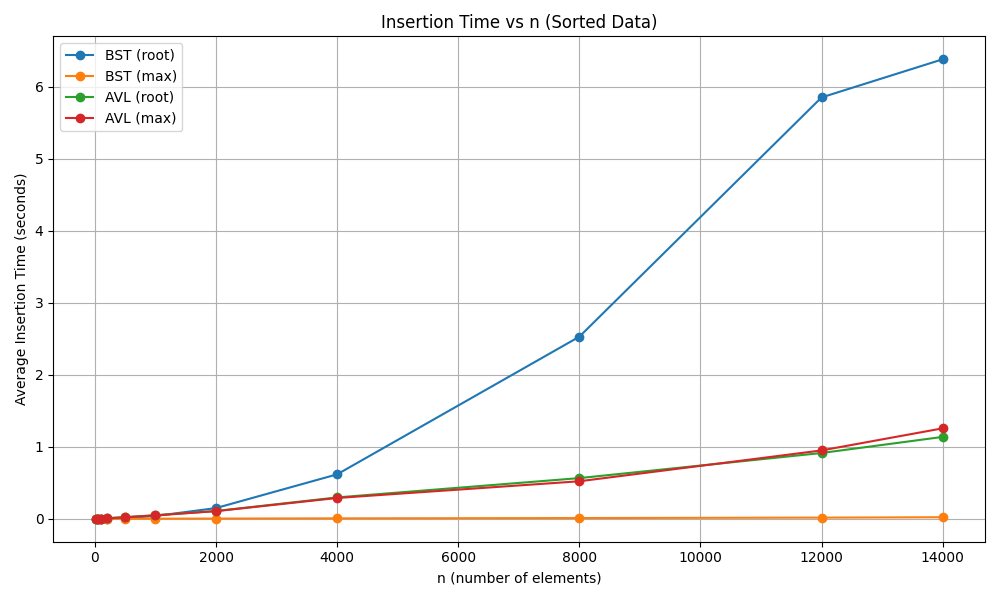
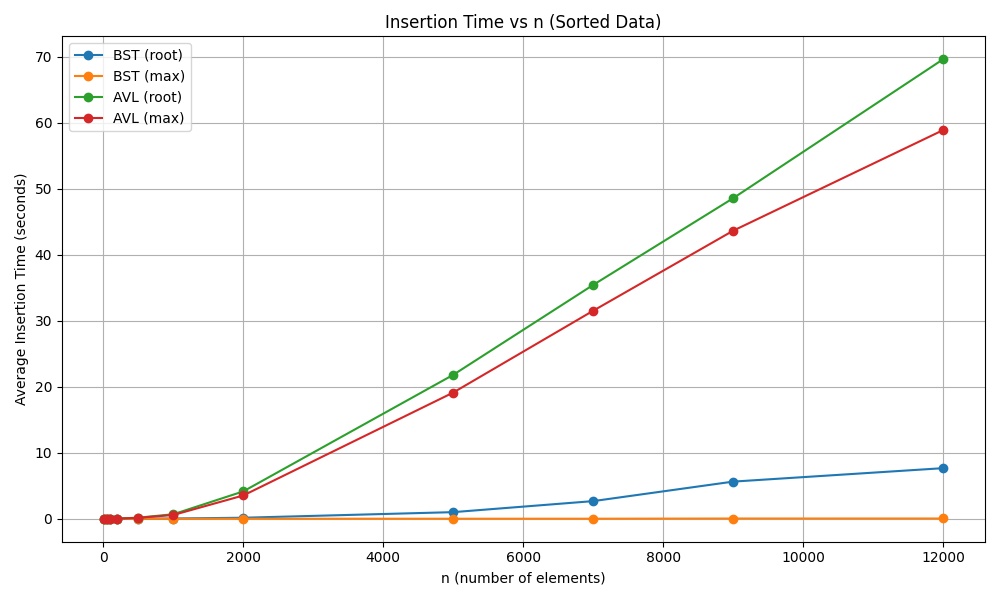
doesnt rebalance all the way up now (nto sure this works)

diff --git a/second_experiment/insertion_exp.py b/second_experiment/insertion_exp.py
@@ -95,10 +95,10 @@ def plot_results(results, folder):
 
 if __name__ == "__main__":
     import time
-    sizes_to_test = [10, 50, 100, 200, 500, 1000, 2000, 4000, 8000, 12000, 14000]
+    sizes_to_test = [10, 50, 100, 200, 500, 1000, 2000,5000,7000, 9000, 12_000]
     start_time = time.time()
-    results = run_all_experiments(sizes_to_test)
-    # results = run_sorted_experiments(sizes_to_test)
+    # results = run_all_experiments(sizes_to_test)
+    results = run_sorted_experiments(sizes_to_test)
     plot_results(results, os.path.dirname(__file__))
     end_time = time.time()
-    print(f"\nTotal experiment time: {end_time - start_time:.2f} seconds")
+    print(f"\nTotal experiment time: {end_time - start_time:.2f} seconds")  

diff --git a/avl_tree.py b/avl_tree.py
@@ -163,6 +163,7 @@ class AVLTree(object):
     def rebalance(self, node):
         rotations = 0
         while node:
+            old_height = node.height
             node.update_stats()
             bf = node.balance_factor()
             if bf > 1:
@@ -177,6 +178,11 @@ class AVLTree(object):
                     rotations += 1
                 node = self.rotate_left(node)
                 rotations += 1
+
+            # If height hasn't changed after rebalancing, we can stop
+            if node.height == old_height:
+                break
+                
             if node.parent is None:
                 self.root = node
             node = node.parent
